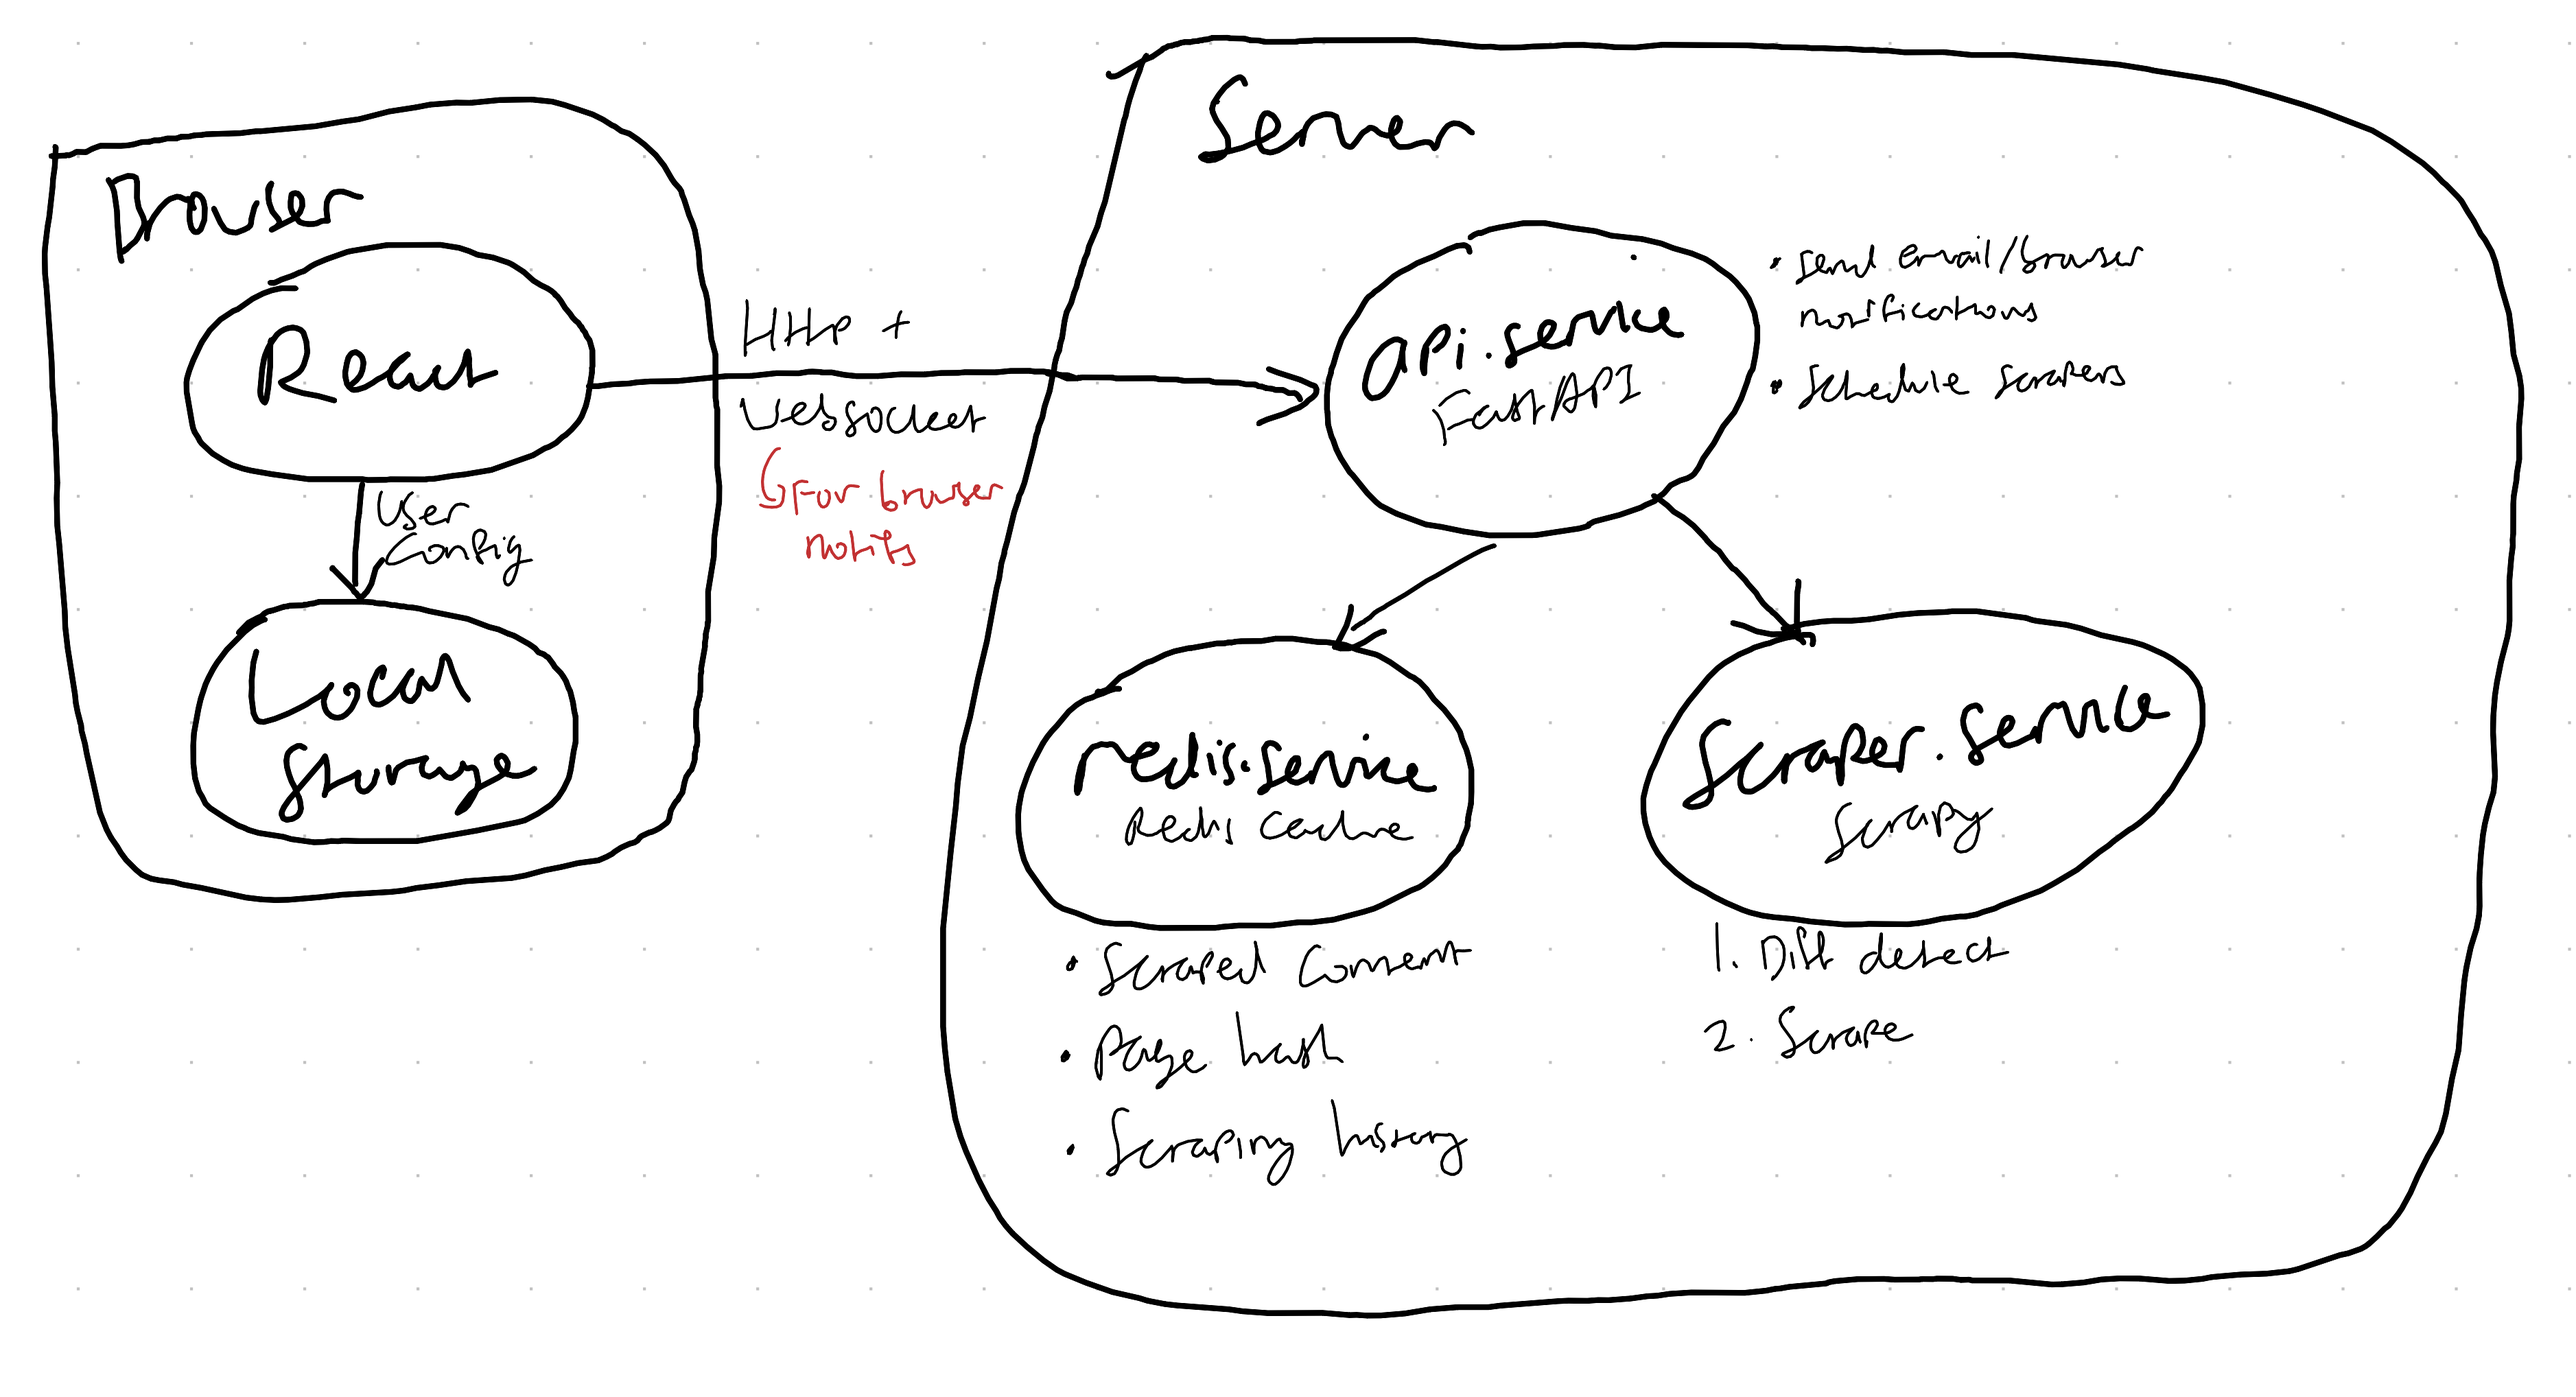
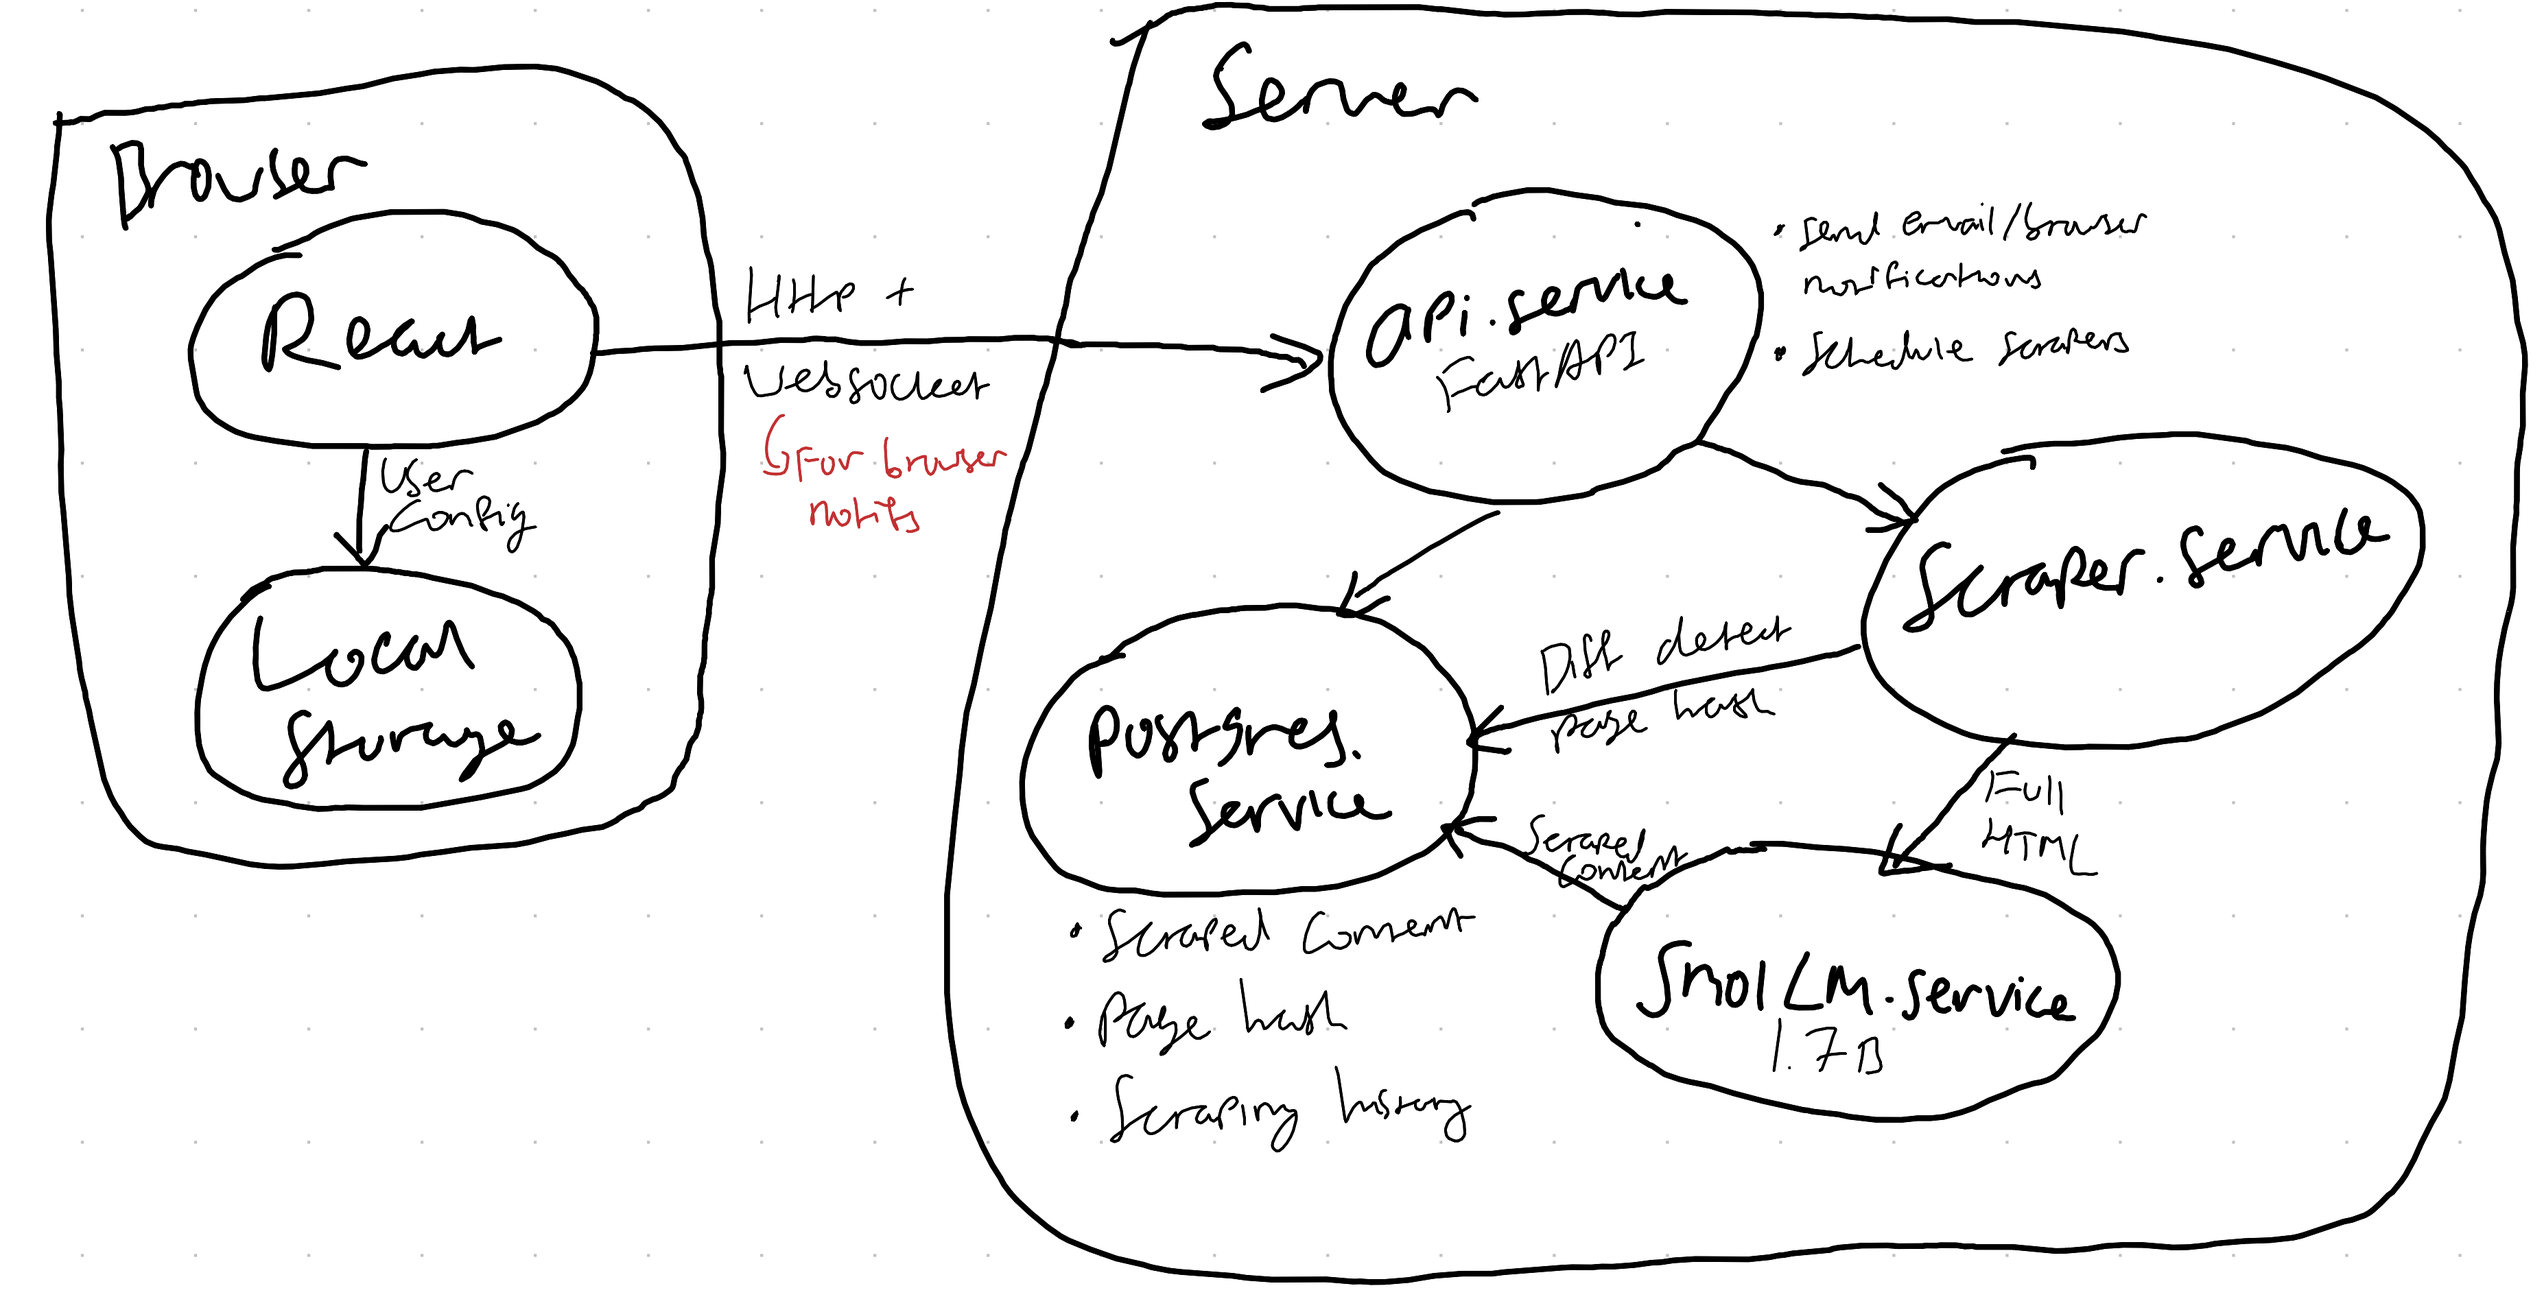
docs: updated architecture

diff --git a/README.md b/README.md
@@ -21,3 +21,10 @@ Next good-to-haves:
 ## System Architecture
 
 ![](assets/images/architecture.png)
+
+Design choices:
+- User config stored in client (exportable).
+- API service handles requests, email/browser notifications, and scraper scheduling
+- Postgres stores scraped content, page hash, and scraping history
+- Scraper first does a diff detect on page hash. If page has changed, it will pull the full HTML and passes it to smolLM.
+- SmolLM should let us scrape more reliably from any website without having to manually configure rules for each site.
